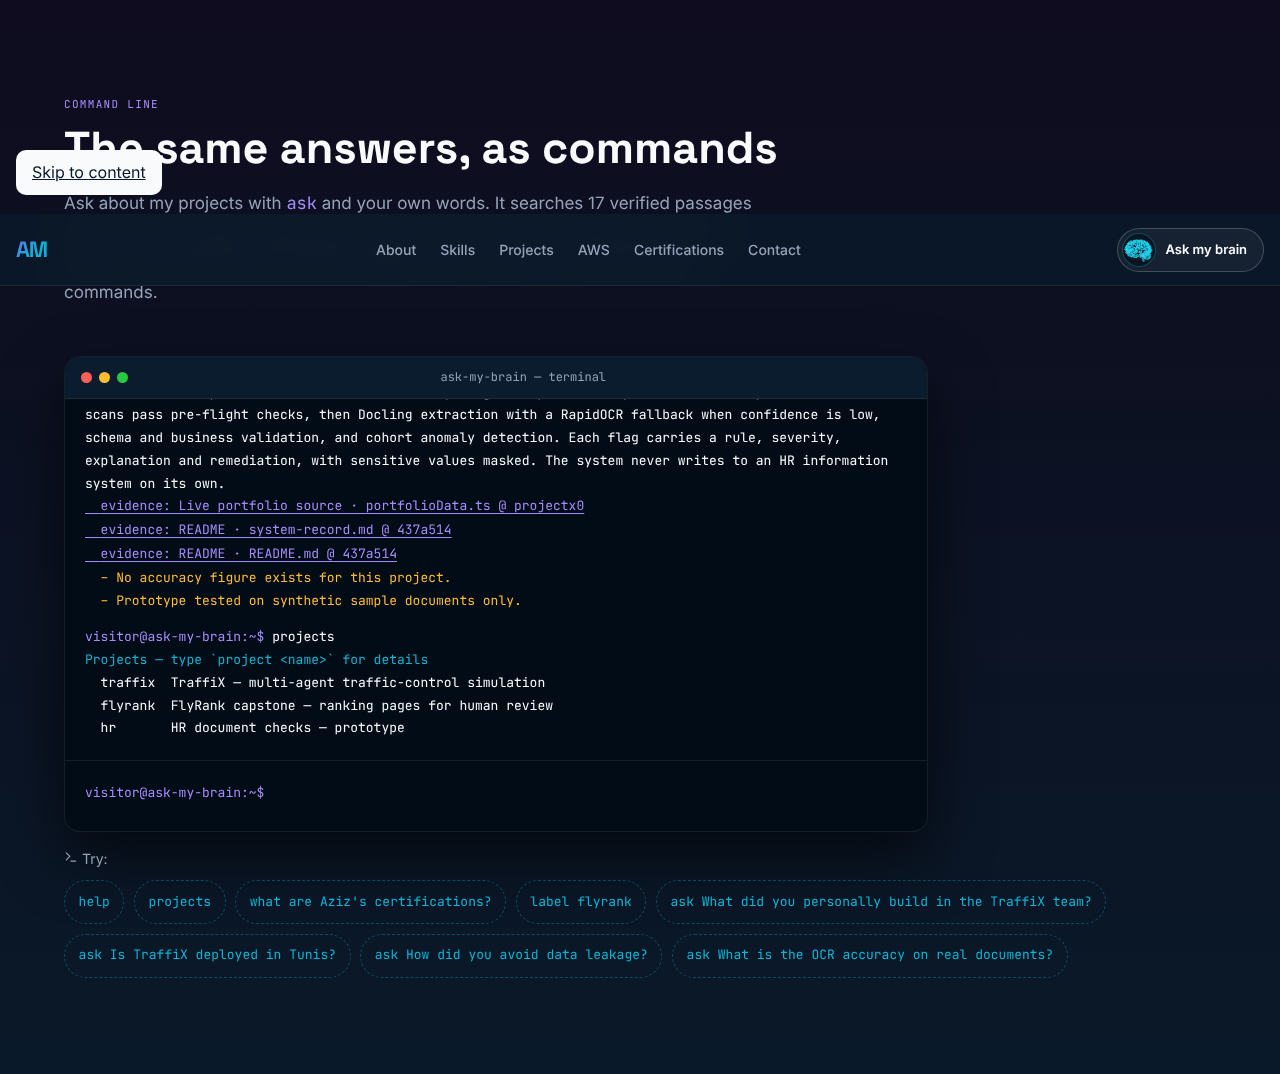
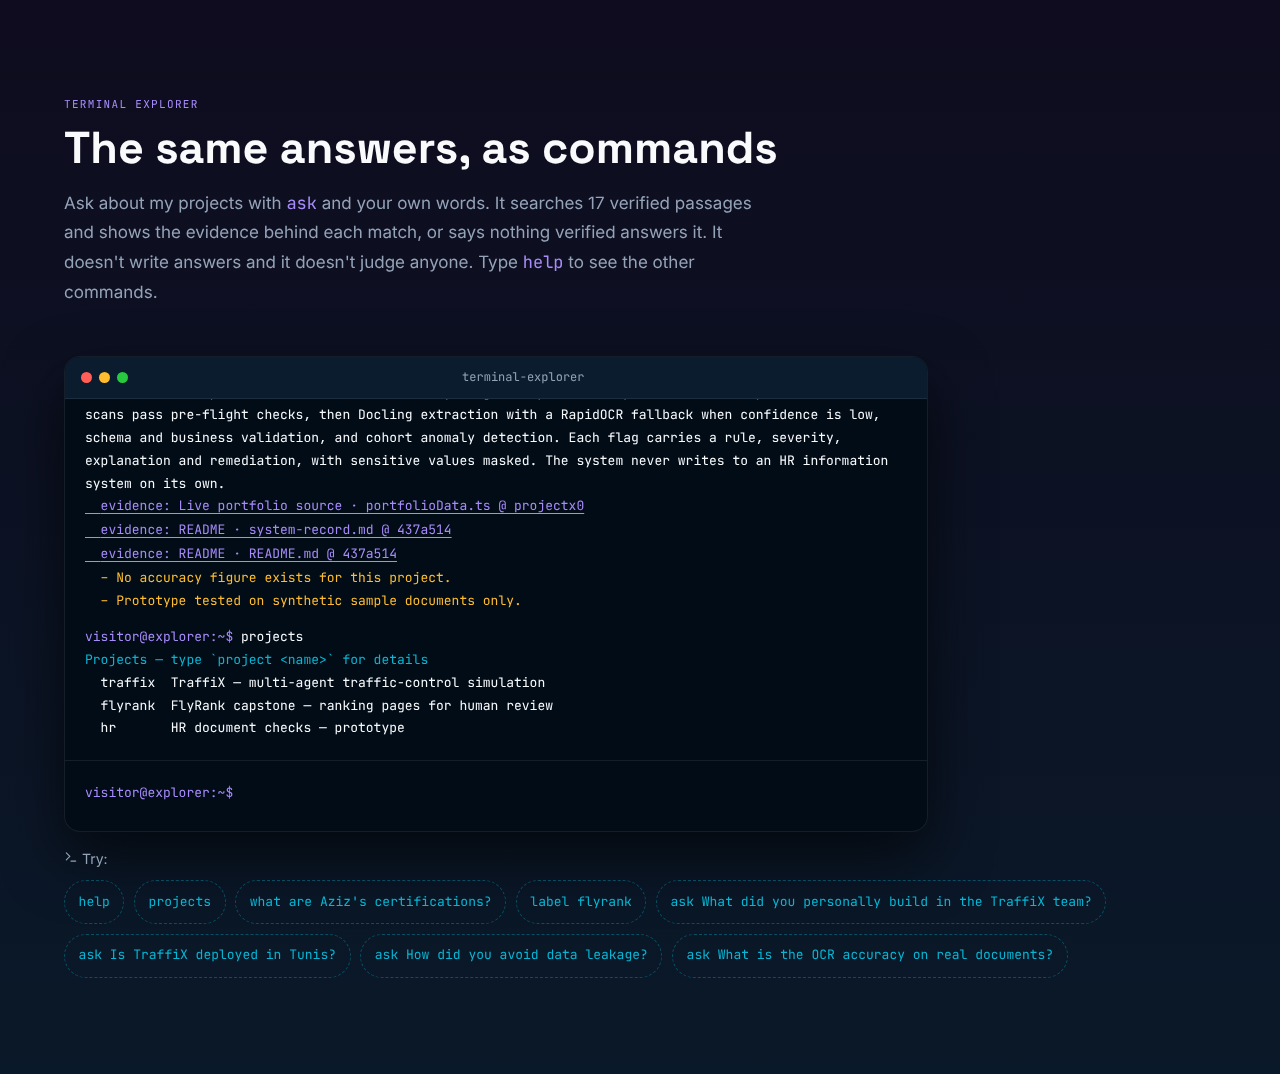
Rename the feature to Terminal Explorer
Claude-Session: https://claude.ai/code/session_01CPfrMnpMwkZ1yM78Z6sMH9

diff --git a/src/sections/Terminal.tsx b/src/sections/Terminal.tsx
@@ -6,7 +6,7 @@ import portfolioJson from "../generated/portfolio.json";
 import { createTerminal, type Line } from "../terminal/commands";
 import Icon from "../ui/Icon";
 
-const PROMPT = "visitor@ask-my-brain:~$";
+const PROMPT = "visitor@explorer:~$";
 const TRY = [
   "help",
   "projects",
@@ -19,7 +19,7 @@ const TRY = [
 ];
 type Entry = { id: number; cmd?: string; lines: Line[] };
 
-/* The Terminal Explorer is "Ask my brain": questions and commands over the same verified passages.
+/* The Terminal Explorer: questions and commands over the same verified passages.
  * Tab is never captured (no keyboard trap); ↑/↓ recall history; output is a polite live log. */
 export default function Terminal({ setMind, reduced }: { setMind: (s: MindState) => void; reduced: boolean }) {
   const term = useMemo(() => createTerminal(corpusJson as Corpus, portfolioJson as Portfolio), []);
@@ -55,7 +55,7 @@ export default function Terminal({ setMind, reduced }: { setMind: (s: MindState)
   return (
     <section id="terminal" className="section terminal-section" aria-labelledby="terminal-title">
       <div className="inner">
-        <p className="sec-label">Command line</p>
+        <p className="sec-label">Terminal Explorer</p>
         <h2 id="terminal-title" className="sec-h2">The same answers, as commands</h2>
         <p className="sec-lead">
           Ask about my projects with <code>ask</code> and your own words. It searches {corpusJson.passages.length} verified passages
@@ -65,7 +65,7 @@ export default function Terminal({ setMind, reduced }: { setMind: (s: MindState)
         <div className="term-win" onClick={(e) => { if (!String(getSelection()) && !(e.target as Element).closest("a")) input.current?.focus(); }}>
           <div className="term-bar" aria-hidden="true">
             <span className="dot r" /><span className="dot y" /><span className="dot g" />
-            <span className="term-title">ask-my-brain — terminal</span>
+            <span className="term-title">terminal-explorer</span>
           </div>
           <div className="term-body" ref={body} role="log" aria-live="polite" aria-relevant="additions" aria-label="Terminal output">
             {log.map((entry) => (

diff --git a/src/scene/scene.ts b/src/scene/scene.ts
@@ -1,6 +1,6 @@
 /* One fixed canvas for the whole page. In the hero: a point-cloud brain inside a sphere of skill nodes
  * (soul of projectx0's NeuralField); the camera pulls back on open and dollies in with the pinned scroll.
- * At the end of the pin the brain shrinks and travels into the "Ask my brain" dock, where it stays for the
+ * At the end of the pin the brain shrinks and travels into the "Terminal Explorer" dock, where it stays for the
  * rest of the page; it moves there only while the dock is hovered or focused.
  * Never draws inside the hero text or behind fixed controls. The loop runs only while something visible moves
  * and the visitor has not paused; reduced motion draws still frames that follow the scroll. No preventDefault on touch. */
@@ -428,7 +428,7 @@ export function createScene(o: SceneOptions) {
     },
     get mindState() { return mind; },
     setDockActive(on: boolean) { dockActive = on; if (on && !paused) flash = 0.6; sync(); still(); },
-    /** dock hidden (e.g. the visitor is already in Ask my brain): don't draw the docked brain */
+    /** dock hidden (e.g. the visitor is already at the Terminal Explorer): don't draw the docked brain */
     setDockAllowed(on: boolean) { dockAllowed = on; measureFixed(); sync(); still(); },
     remeasure() { measure(); still(); },
     get paused() { return paused; },

diff --git a/src/styles/base.css b/src/styles/base.css
@@ -85,7 +85,7 @@ html.intro .hero-inner > * { opacity: 0; transform: translateY(12px); transition
 .hint-label { font-family: var(--font-m); font-size: 11px; letter-spacing: 0.12em; text-transform: uppercase; color: var(--fg-muted); }
 .hint-q, .suggest-q { min-height: 44px; padding: var(--space-3xs) var(--space-sm); border-radius: var(--radius-pill); border: 1px dashed var(--cyan-line); background: transparent; color: var(--cyan); cursor: pointer; text-align: left; transition: border-color var(--dur-base), background var(--dur-base); }
 .hint-q:hover, .suggest-q:hover { border-style: solid; background: var(--glass5); }
-/* nav control: the "Ask my brain" link the brain docks into */
+/* nav control: the "Terminal Explorer" link the brain docks into */
 .nav-cta[aria-current="true"] { border-color: var(--violet-hover); background: var(--violet-tint); }
 .dock-brain { flex: none; width: 34px; height: 34px; border-radius: 50%; border: 1px dashed var(--cyan-line); background: radial-gradient(circle, rgba(6, 15, 26, 0.4), rgba(6, 15, 26, 0.9)); transition: border-color var(--dur-slow); }
 .nav-cta.is-docked .dock-brain { border-style: solid; }

diff --git a/tests/e2e/site.spec.ts b/tests/e2e/site.spec.ts
@@ -65,7 +65,7 @@ test.describe("reduced motion", () => {
   });
 });
 
-test("ask my brain terminal: evidence with links, honest no-result, suggestions", async ({ page }, info) => {
+test("terminal explorer: evidence with links, honest no-result, suggestions", async ({ page }, info) => {
   await page.goto("/#terminal");
   const input = page.locator("#term-input");
   const log = page.getByRole("log", { name: "Terminal output" });
@@ -198,7 +198,7 @@ test("runs under the production CSP from customHttp.yml without violations", asy
 const scrollPage = (page: Page, y: number) => page.evaluate((v) => window.scrollTo({ top: v, behavior: "instant" }), y);
 const running = (page: Page) => page.evaluate(() => (window as unknown as { __scene?: { running: boolean } }).__scene?.running ?? false);
 
-test("the brain docks into the nav's Ask my brain link; it is a keyboard-reachable hint", async ({ page }, info) => {
+test("the brain docks into the nav's Terminal Explorer link; it is a keyboard-reachable hint", async ({ page }, info) => {
   await page.goto("/");
   await page.waitForTimeout(1200);
   const cta = page.locator(".nav-cta");

diff --git a/src/ui/Nav.tsx b/src/ui/Nav.tsx
@@ -65,7 +65,7 @@ export default function Nav({ scene, docked }: Props) {
         <a className={`nav-cta${docked ? " is-docked" : ""}`} href="#top" aria-current={current === "top" ? "true" : undefined} onClick={() => { setOpen(false); landOn("top"); }}
           onMouseEnter={wake(true)} onMouseLeave={wake(false)} onFocus={wake(true)} onBlur={wake(false)}>
           <span className="dock-brain" aria-hidden="true" />
-          <span className="cta-label">Ask my brain</span>
+          <span className="cta-label">Terminal Explorer</span>
         </a>
         <button ref={toggle} className="nav-toggle" type="button" aria-expanded={open} aria-controls="nav-links"
           aria-label={open ? "Close menu" : "Menu"} onClick={() => setOpen((o) => !o)}>

diff --git a/src/sections/AskPanel.tsx b/src/sections/AskPanel.tsx
@@ -63,7 +63,7 @@ export default function AskPanel({ mind, setMind, reduced, onLayout }: Props) {
   return (
     <div className="ask" id="ask">
       <form className="ask-form" role="search" onSubmit={(e) => { e.preventDefault(); submit(value); }}>
-        <label htmlFor="hero-ask" className="ask-label">Ask my brain · check a claim against the evidence</label>
+        <label htmlFor="hero-ask" className="ask-label">Terminal Explorer · check a claim against the evidence</label>
         <div className="ask-row">
           <input id="hero-ask" className="ask-input" type="search" value={value} maxLength={MAX_QUESTION} autoComplete="off"
             placeholder="e.g. Did TraffiX make ambulances faster?"

diff --git a/index.html b/index.html
@@ -3,7 +3,7 @@
   <head>
     <meta charset="UTF-8" />
     <meta name="viewport" content="width=device-width, initial-scale=1, viewport-fit=cover" />
-    <title>Aziz Messaoud · Ask my brain</title>
+    <title>Aziz Messaoud · Applied AI engineering</title>
     <meta name="description" content="Aziz Messaoud, Data Science Engineering student at ESPRIT. Ask questions about TraffiX, the FlyRank capstone and an HR document prototype; every answer links to its evidence." />
     <link rel="icon" href="/favicon.svg" type="image/svg+xml" />
     <link rel="preconnect" href="https://fonts.googleapis.com" />

diff --git a/tests/unit/terminal.test.ts b/tests/unit/terminal.test.ts
@@ -13,7 +13,7 @@ describe("terminal explorer", () => {
     const out = text(term.run("help"));
     COMMANDS.forEach(([c]) => expect(out).toContain(c));
   });
-  it("answers from the same retriever as Ask my brain, with limits and evidence", () => {
+  it("answers from the same retriever as the Terminal Explorer, with limits and evidence", () => {
     const r = term.run("ask Are ambulances faster with TraffiX?");
     expect(text(r)).toContain("Ambulances are slower");
     expect(r !== "clear" && r.some((l) => l.kind === "link" && /github\.com\/azizmessaoud\/traffix/.test(l.href))).toBe(true);

diff --git a/tests/unit/retriever.test.ts b/tests/unit/retriever.test.ts
@@ -9,7 +9,7 @@ const corpus = JSON.parse(readFileSync("src/generated/corpus.json", "utf8")) as 
 const judged = parse(readFileSync("content/judged.yaml", "utf8")) as Judged[];
 const retriever = createRetriever(corpus);
 
-describe("ask my brain — keyword baseline", () => {
+describe("terminal explorer — keyword baseline", () => {
   it("meets the agreed floor on the judged set", () => {
     const r = evaluate(retriever, judged);
     expect(judged.length).toBeGreaterThanOrEqual(12);

diff --git a/src/terminal/commands.ts b/src/terminal/commands.ts
@@ -1,4 +1,4 @@
-/* The Terminal Explorer is Ask my brain: verified evidence reached by typing.
+/* The Terminal Explorer: verified evidence reached by typing.
  * Pure: takes a command line, returns lines to print. Every fact comes from the corpus or the
  * evidence register; nothing here is invented, and `ask` uses the same retriever. */
 import type { Corpus, Portfolio } from "../content/schema";

diff --git a/src/retrieval/retriever.ts b/src/retrieval/retriever.ts
@@ -1,4 +1,4 @@
-/* "Ask my brain": finds verified portfolio passages for a question. It retrieves evidence;
+/* Terminal Explorer retrieval: finds verified portfolio passages for a question. It retrieves evidence;
  * it never generates answers and never scores the person. */
 import type { Corpus, CorpusPassage } from "../content/schema";
 import { buildIndex, score } from "./bm25";

diff --git a/docs/design-decisions.md b/docs/design-decisions.md
@@ -53,6 +53,7 @@
 - Retrieval card replaced (29 Oct): "Retrieval & evaluation / this site" was self-referential, so it now reads "Retrieval & LLM apps" and links to the team RAG assistant (owner: EyaLaourine, pinned to 229191a). Role wording is Aziz's own account ("worked on the RAG component"); the repo lists no contributors. Chips come from that repo's README stack section.
 - Pause button removed (29 Oct, Aziz's request). Still true: reduced-motion visitors get still frames, the loop stops when the hero is off screen, and the brain docks and goes idle. No longer true: a visitor who allows motion can't stop the hero animation (WCAG 2.2.2 "Pause, Stop, Hide" asks for that on motion lasting over 5 s). Note this in `docs/accessibility-audit.md` before submission. `scene.pause()` still exists in the code, unused.
 - Portrait added to About (copied from the old portfolio's `portrait.jpg`, resized to 480 px, 35 KB). Certifications and smaller projects now live in `content/*.yaml`; see `docs/ADDING-CONTENT.md`. The "AWS Certified" deny-list rule now applies to prose only, so a real certification entry (with its verification link) can be added.
+- Name (29 Oct): the feature is called "Terminal Explorer" everywhere visitors see it ("Ask my brain" read as informal). Older notes and audit files below keep the old name for history.
 - Hero copy (29 Oct, after feedback that "Ask my brain" read like a product feature): the headline now leads with what I do ("I build practical AI systems.") and the evidence trail ("including what didn't work"); the question box stays, labelled as a way to check claims. Text in the hero is not selectable (so clicking the animation never highlights it); the question box and answers are.
 - Final alignment (29 Oct): the question box moved into the hero with the brain beside it; one answer engine (`src/assistant/answer.ts`) feeds both the hero panel and the terminal. Outcomes are `supported`, `contradicted`, `not_verified`, `error`. AWS facts come only from `content/aws-status.yaml`; a config file never implies a deployment and a dependency or plan never implies a service. Visual refinement was controlled, not a rebuild: no gradient headline, flatter skill cards, no hover lift; the brain, colours and type are unchanged. Bedrock, Lambda and API Gateway are planned only.
 
